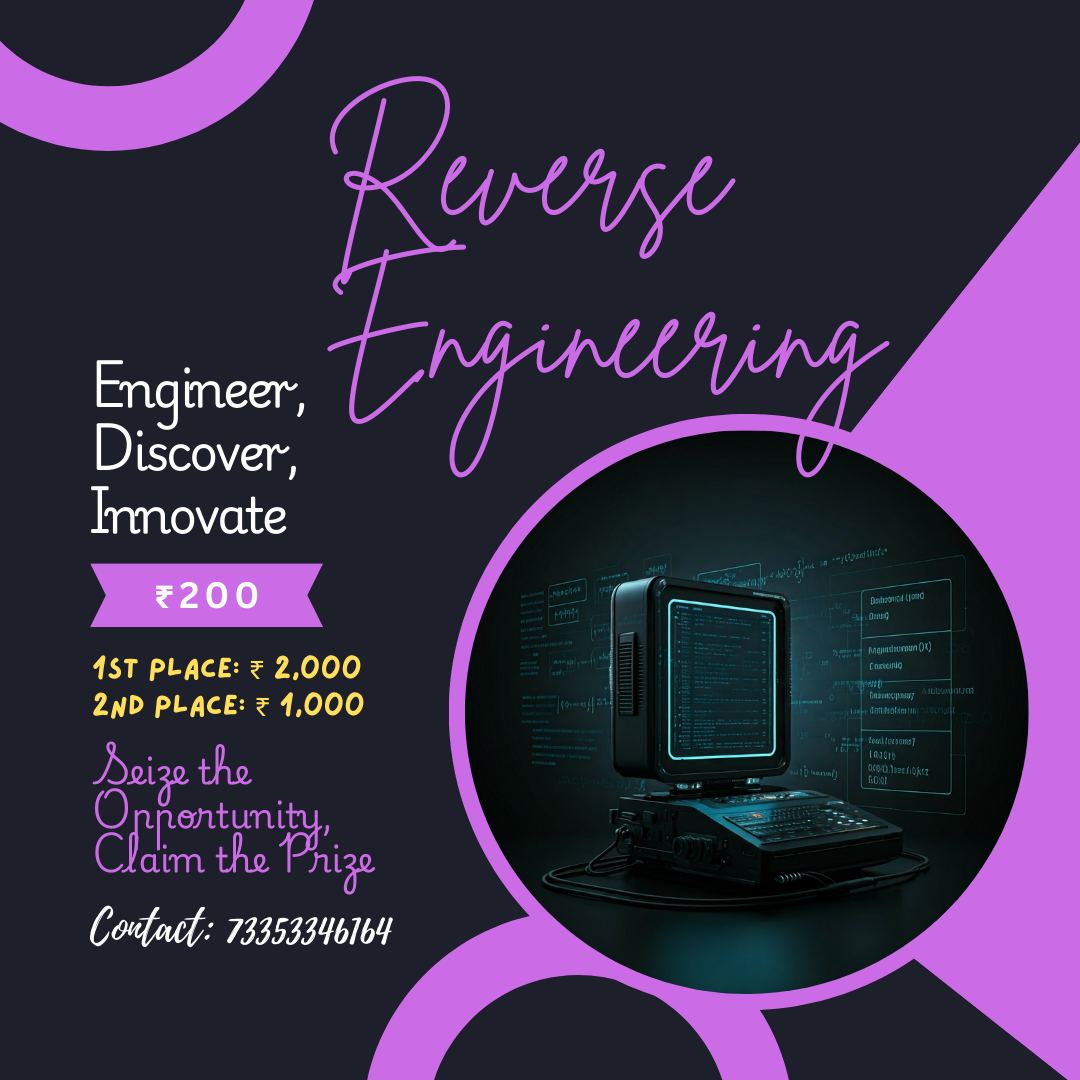
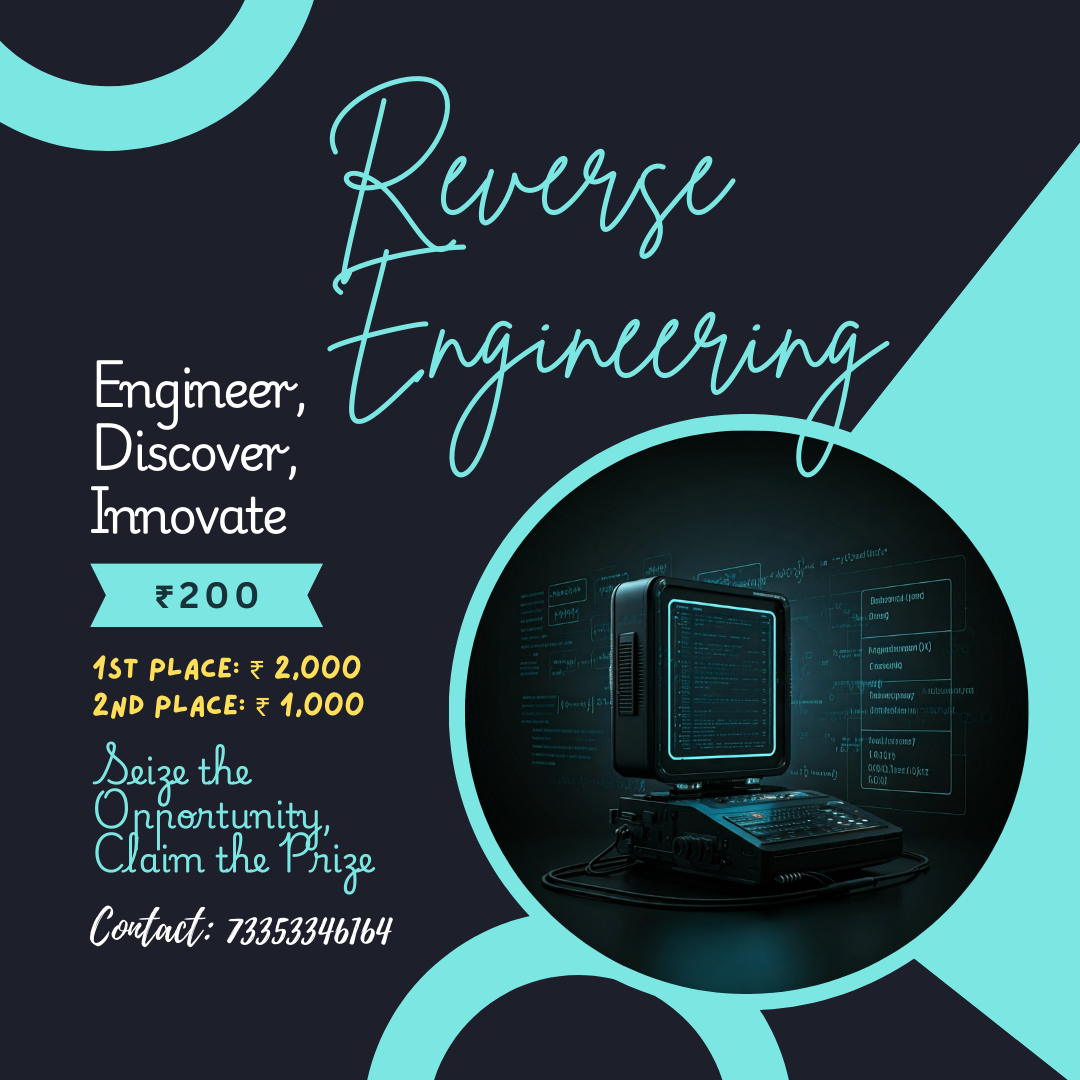
feat: text on hovering card and sponsor

diff --git a/components/TheyTrustedUs/Index.jsx b/components/TheyTrustedUs/Index.jsx
@@ -1,84 +1,88 @@
 import Image from "next/image";
-import qBraid from "../../images/logos/qBraid.png";
+import Tilt from "react-parallax-tilt";
+// import qBraid from "../../images/logos/qBraid.png";
+import Selfypage from "../../images/logos/Selfypage.png";
 import atom from "../../images/shapes/atom.png";
 import computer from "../../images/shapes/computer.png";
 import maqam from "../../images/shapes/GDGAlgiers.png";
 import globe from "../../images/shapes/globe.png";
 import SectionTitle from "../helpers/SectionTitle";
+// import YellowButton from "../helpers/YellowButton";
 
 const TheyTrustedUs = () => {
   return (
     <section id="our-sponsors" className="section-container lg:pt-16">
       <div className="relative">
-        <div className="mt-24 lg:mt-7 2xl:mt-12 ">
-          <SectionTitle title={"They trusted us"} />
+        <div className="mt-24 lg:mt- ">
+          <SectionTitle title={"They Trusted us"} />
         </div>
 
-        <div className="relative mt-14 lg:mt-16 2xl:mt-[5.75rem] ">
-          <div className="w-10 h-10 absolute -left-2 -top-10 right-0 lg:w-14 lg:h-14 12xl:h-20 2xl:w-20">
+        <div className="relative mt-14 lg:mt-16 ">
+          <div className="w-10 h-10 absolute -left-2 -top-10 right-0 lg:w-14 lg:h-14">
             <Image src={globe} alt="" />
           </div>
         </div>
 
-        <div className="invisible lg:visible 2xl:visible h-7 w-7 absolute left-2/3 top-5 right-0 lg:w-12 lg:h-12 lg:-ml-10 2xl:-ml-20 2xl:h-20 2xl:w-16">
+        <div className="invisible lg:visible h-7 w-7 absolute left-2/3 top-5 right-0 lg:w-12 lg:h-12 lg:-ml-10">
           <Image src={atom} alt="" />
         </div>
 
-        <div className="absolute left-70 -top-24 right-28 h-12 w-14 -mr-20 -mt-0 lg:mt-8 2xl:mt-0 lg:w-28 lg:h-20 2xl:h-28 2xl:w-40">
+        <div className="absolute left-70 -top-24 right-28 h-12 w-14 -mr-20 -mt-0 lg:mt-8 lg:w-28 lg:h-20">
           <Image src={maqam} alt="" />
         </div>
 
-        <div className="flex flex-col justify-center gap-9 2xl:ml-52 lg:ml-40 lg:flex-row lg:mt-20 lg:gap-28 w-3/4 mx-auto  2xl:flex-row 2xl:mt-32 2xl:gap-40">
-          <div className="mt-8 h-16 w-44 lg:w-[22rem] lg:h-36 2xl:h-44 2xl:w-[33rem]">
-            <Image src={qBraid} alt="qbraid logo" />
-          </div>
+        <div className="flex flex-col justify-center items-center gap-9 lg:ml-40 lg:flex-row lg:mt-20 lg:gap-28 w-3/4 mx-auto ">
 
           {/* <div className="lg:mt-10">
-            <div className="h-16 w-36 lg:w-[22rem] lg:h-36 2xl:h-52 2xl:w-[33rem]">
-              <Image src={WIQ} alt="WIQ logo" />
-            </div>
+              <Image src={qBraid} alt="qBraid logo" />
           </div> */}
-        </div>
-{/* 
-        <div className="flex flex-col items-center gap-9 lg:flex-row lg:gap-24 lg:mr-28 2xl:flex-row 2xl:mr-60 2xl:gap-36 w-2/3 mx-auto">
-          <div className="mt-8 h-[7.75rem] w-[7.6rem] lg:h-44 lg:w-44 lg:-mt-1 2xl:mt-4 2xl:h-64 2xl:w-64">
-            <Image src={Sonatrach} alt="Sonatrach logo" />
-          </div>
+          <Tilt
+            className="cursor-pointer rounded-lg"
+            tiltMaxAngleX={30}
+            tiltMaxAngleY={20}
+            transitionSpeed={300}
+            glareEnable={true}
+            glareMaxOpacity={0.5}
+            glareColor={"#097de0"}
+            glarePosition="all"
+          >
+            <Image src={Selfypage} alt="Selfypage logo" width={280} height={280} />
+            {/* <div className="text-center mt-4 relative w-4/5 mx-auto z-10 -mt-24">
+              <YellowButton redirect={""} title={"Visit our website"} />
+            </div> */}
+          </Tilt>
 
-          <div className="lg:mt-10 lg:w-80 lg:h-28 2xl:mt-20 2xl:h-40 2xl:w-[32rem]">
-            <Image src={World} alt="World logo" />
-          </div>
-        </div> */}
+        </div>
       </div>
 
       <div className="relative mt-20">
-        <div className="invisible lg:visible 2xl:visible absolute -left-2 -top-36 right-0 lg:w-16 lg:h-16 2xl:h-20 2xl:w-20">
+        <div className="invisible lg:visible absolute -left-2 -top-36 right-0 lg:w-16 lg:h-16">
           <Image src={atom} alt="" />
         </div>
 
-        <div className="invisible lg:visible 2xl:visible absolute 2xl:-ml-6 left-1/2 2xl:top-10 lg:-top-1 lg:-ml-4 right-0 lg:w-16 lg:w-12 2xl:h-24 2xl:w-24">
+        <div className="invisible lg:visible absolute left-1/2 lg:-top-1 lg:-ml-4 right-0 lg:w-16 lg:w-12">
           <Image src={computer} alt="" />
         </div>
 
-        <div className="invisible lg:visible 2xl:visible absolute 2xl:left-1/2 2xl:top-12 lg:left-1/2 right-0 lg:w-8 lg:h-9 2xl:h-12 2xl:w-12">
+        <div className="invisible lg:visible absolute lg:left-1/2 right-0 lg:w-8 lg:h-9">
           <Image src={atom} alt="" />
         </div>
 
-        <div className="invisible lg:visible 2xl:visible absolute left-90 -top-10 right-0 lg:w-14 lg:h-14 2xl:h-20 2xl:w-20">
+        <div className="invisible lg:visible absolute left-90 -top-10 right-0 lg:w-14 lg:h-14">
           <Image src={globe} alt="" />
         </div>
       </div>
 
-      <div className="visible lg:invisible 2xl:invisible w-10 h-10 -mt-80 ml-14">
+      <div className="visible lg:invisible w-10 h-10 -mt-80 ml-14">
         <Image src={atom} alt="" />
       </div>
-      <div className="visible lg:invisible 2xl:invisible w-10 h-10 mt-64 ml-72">
+      <div className="visible lg:invisible w-10 h-10 mt-64 ml-72">
         <Image src={globe} alt="" />
       </div>
-      <div className="visible lg:invisible 2xl:invisible w-7 h-8 mt-62 ml-28">
+      <div className="visible lg:invisible w-7 h-8 mt-62 ml-28">
         <Image src={atom} alt="" />
       </div>
-      <div className="visible lg:invisible 2xl:invisible w-14 h-10 -mt-9 ml-24">
+      <div className="visible lg:invisible w-14 h-10 -mt-9 ml-24">
         <Image src={computer} alt="" />
       </div>
     </section>

diff --git a/components/AboutEvent/Index.jsx b/components/AboutEvent/Index.jsx
@@ -15,19 +15,23 @@ const AboutEvent = () => {
     {
       name: "Reverse Engineering",
       image: event1,
-      color: "#cb6ce6"
+      color: "#7ce6e2",
+      description: "Dive into the art of deconstructing complex systems, discovering their inner workings, and unlocking new perspectives in technology and innovation."
     },
     {
-      name: "Shark Tank",
+      name: "Shark Tekz",
       image: event2,
-      color: "#4999D0"
+      color: "#4999D0",
+      description: "Experience the thrill of rapid innovation as creative minds pitch groundbreaking tech ideas in a high-stakes environment where innovation meets competition."
     },
     {
       name: "E-Sports",
       image: event3,
-      color: "#fe8400"
+      color: "#fe8400",
+      description: "Join the excitement of competitive gaming with thrilling matches, elite players, and a vibrant community celebrating the world of esports."
     },
-  ]
+  ];
+  
   return (
     <section id="about-event" className="section-container pt-12 lg:pt-24">
 
@@ -71,11 +75,11 @@ const AboutEvent = () => {
 
           {/* Events */}
           <div className="flex justify-center items-center">
-            <div className="relative w-4/5 my-16 flex gap-8 flex-col lg:flex-row justify-between">
+            <div className="relative w-4/5 my-16 flex gap-16 flex-col lg:flex-row justify-between">
               {eventsData.map((eventObj, index) => (
                 <div
                   key={index}
-                  className={`flex flex-col items-center ${index === 0 || index === 2 ? 'lg:scale-90' : 'lg:scale-[1.1]'} 
+                  className={`flex flex-col items-center ${index === 0 || index === 2 ? 'lg:scale-100' : 'lg:scale-[1.2]'} 
         ${index === 1 ? 'order-first' : 'order-last'}
          lg:order-none`}
                 // index === 1 is to make the 2nd image first (Shark Tech) in mobile view
@@ -89,8 +93,9 @@ const AboutEvent = () => {
                     glareMaxOpacity={2}
                     glareColor={eventObj.color}
                     glarePosition="all"
-                    className="cursor-pointer"
+                    className="cursor-pointer relative group"
                   >
+                    {/* Image with hover description */}
                     <Image
                       src={eventObj.image}
                       alt={eventObj.name}
@@ -98,12 +103,22 @@ const AboutEvent = () => {
                       height={500}
                       className="rounded-lg shadow-md"
                     />
+
+                    {/* Description overlay */}
+                    <div
+                      className="absolute top-10 left-0 w-full bg-black bg-opacity-60 text-center p-4 opacity-0 group-hover:opacity-100 transition-opacity duration-300"
+                      style={{ color: "#fddc69" }}
+                    >
+                      <p className="text-xl font-semibold">{eventObj.description}</p>
+                    </div>
+
                   </Tilt>
 
                   {/* Name Button */}
-                  <div className="text-center mt-4 relative w-4/5 mx-auto z-10 -mt-24 ">
-                      <YellowButton title={eventObj.name} />
+                  <div className="text-center mt-4 relative w-4/5 mx-auto z-10 -mt-20">
+                    <YellowButton title={eventObj.name} />
                   </div>
+
                 </div>
               ))}
             </div>
@@ -137,7 +152,6 @@ const AboutEvent = () => {
             alt="computer"
           />
         </div>
-
       </div>
 
     </section>

diff --git a/pages/index.jsx b/pages/index.jsx
@@ -1,6 +1,5 @@
 import Head from "next/head";
 import AboutEvent from "../components/AboutEvent/Index";
-import AboutUs from "../components/AboutUs/Index";
 import EventLocation from "../components/EventLocation/Index";
 import Footer from "../components/Footer/Index";
 import Hero from "../components/Hero/Index";
@@ -12,7 +11,7 @@ export default function Home() {
     <>
       <Head>
         <title>AIgnite</title>
-        <meta name="description" content="AIgnite Technical Events to remember forever" />
+        <meta name="description" content="AIgnite Technical Event by AIT AIML Chikmagalur" />
         <link rel="shortcut icon" href="/favicon.ico" />
       </Head>
 
@@ -20,10 +19,10 @@ export default function Home() {
       <main className="font-IBM-Plex">
         <AboutEvent />
         <EventLocation />
-        <AboutUs />
-        <OurSpeakers/>
-        <TheyTrustedUs />
+        {/* <AboutUs /> */}
         <Schedule />
+        <TheyTrustedUs />
+        <OurSpeakers/>
       </main>
       <Footer />
     </>

diff --git a/components/Hero/Index.jsx b/components/Hero/Index.jsx
@@ -4,6 +4,7 @@ import Tilt from "react-parallax-tilt";
 import Typewriter from "typewriter-effect";
 import AIML_Logo from "../../images/logos/AIML-LOGO-WHITE.png";
 import BackGround from "../../images/sectionsAssets/Hero-background.png";
+// import BackGround from "../../images/sectionsAssets/Hero-background.jpg";
 import Arrow from "../../images/shapes/Arrow.png";
 import Atom from "../../images/shapes/atomWhite.png";
 import Computer from "../../images/shapes/computerWhite.png";
@@ -46,7 +47,7 @@ const Hero = () => {
         />
       </motion.div>
 
-      <div className="section-container pb-24 md:pb-0">
+      <div className="section-container pb-24 md:pb-0 mb-6 lg:mb-0">
         <Navbar />
         <Animate className="flex flex-col gap-16 lg:gap-0 relative">
           <div className="w-12 h-12 absolute top-1/4 left-4 lg:top-4 lg:left-4">

diff --git a/components/helpers/ParagSection2.jsx b/components/helpers/ParagSection2.jsx
@@ -15,15 +15,15 @@ const ParagSection2 = ({ title = "", paragraph = "", highlights = [], hoverColor
 
   return (
     <div className="flex flex-col gap-10 items-center lg:flex-row">
-<Tilt
-  className="cursor-pointer rounded-lg"
-  scale={1.1}
-  transitionSpeed={300}
-  glareEnable={true}
-  glareMaxOpacity={0.5} 
-  glareColor={hoverColor} 
-  glarePosition="all"
->
+      <Tilt
+        className="cursor-pointer rounded-lg"
+        scale={1.1}
+        transitionSpeed={300}
+        glareEnable={true}
+        glareMaxOpacity={0.5}
+        glareColor={hoverColor}
+        glarePosition="all"
+      >
         <div className="flex flex-col gap-5 flex-1 h-[250px] lg:h-[321px] bg-gray-800 p-4 rounded-lg">
           {title && (
             <h2 className="text-qiskit-white text-3xl lg:text-4xl font-bold leading-tight lg:leading-snug">
